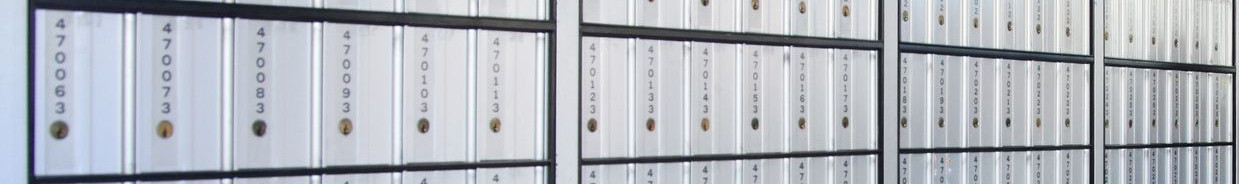
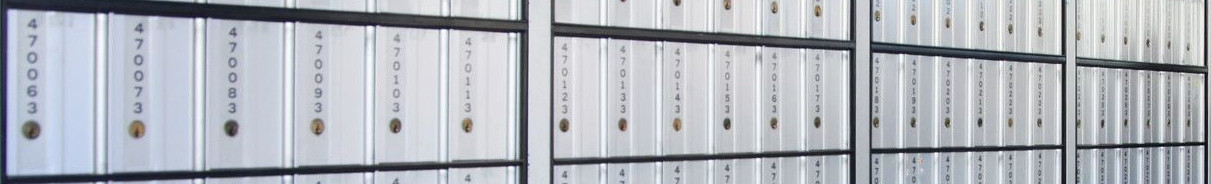
better crop

diff --git a/docs/server-protocol.rst b/docs/server-protocol.rst
@@ -19,7 +19,7 @@ Concepts and Analogy
 Naming of this server centers around the concept of a North American post-office, which typically consisted of rows and rows of identical locked doors, behind which letters for a particular recipient would be placed.
 
 .. image:: _static/hilbert-post-office.jpeg
-    :width: 1239
+    :width: 1211
     :height: 184
     :alt: rows of identical locked boxes with different numbers on them
 
